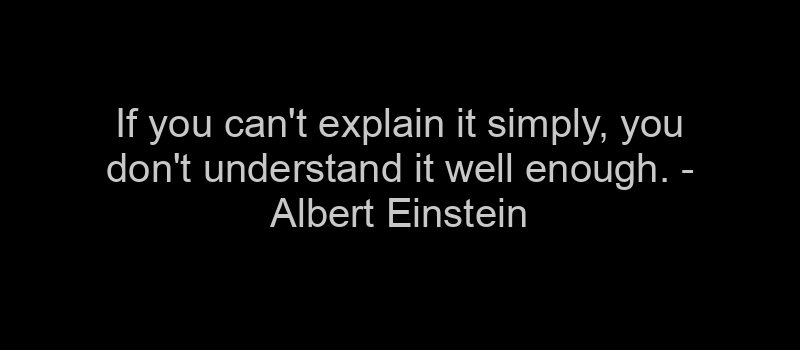
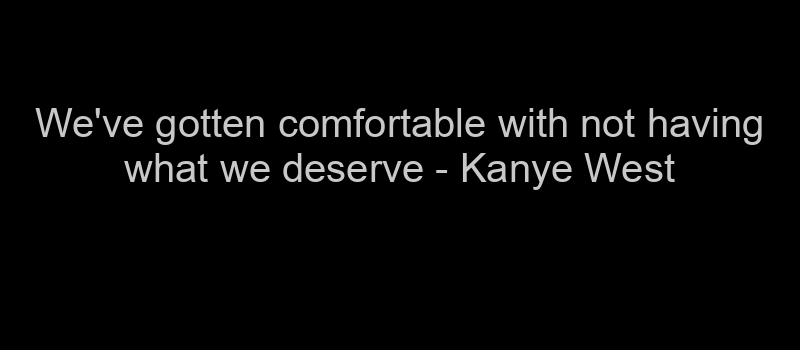
updated randomquote.py

Changed region(s): [[0.0312, 0.3143, 0.9688, 0.6571]]

diff --git a/randomquote.py b/randomquote.py
@@ -19,7 +19,7 @@ logger.setLevel(logging.INFO)
 # Get Quote
 logger.info("getting quote")
 def get_quote():
-    url = "https://api.quotable.io/random"
+    url = "https://api.quotable.io/random?tags=famous-quotes,wisdom"
 
     try:
         response = requests.get(url)
@@ -27,15 +27,17 @@ def get_quote():
         logger.info("Error while calling API...")
     res = json.loads(response.text)
     print(res)
-    return res['content'] + " - " + res['author']
+    return res['content'] + "\r\n" + res['author']
 
-
+# Build Image
 logger.info("making image")
 toot = get_quote()
 QuotePic.get_wallpaper(toot)
 logger.info("sleeping")
 time.sleep(3)
+
+# Toot Toot
 media = mastodon.media_post("created_image.png")
 logger.info("tooting quote")
 
-mastodon.status_post("Random Quote of the day!", media_ids=media)
+mastodon.status_post("",media_ids=media)
